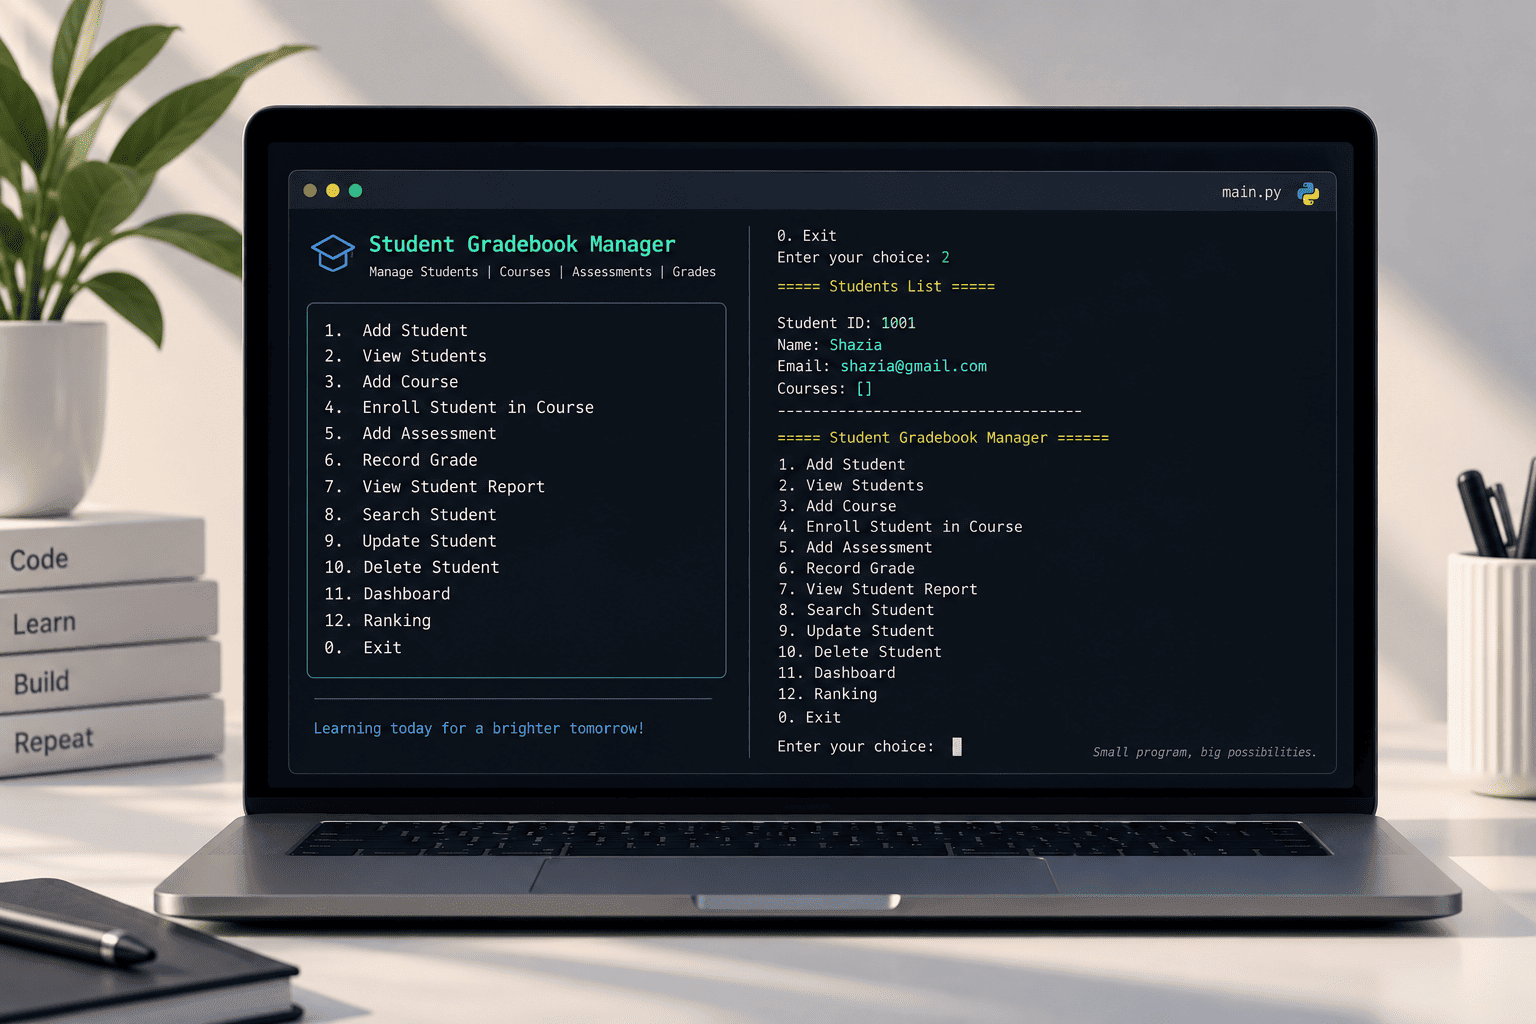
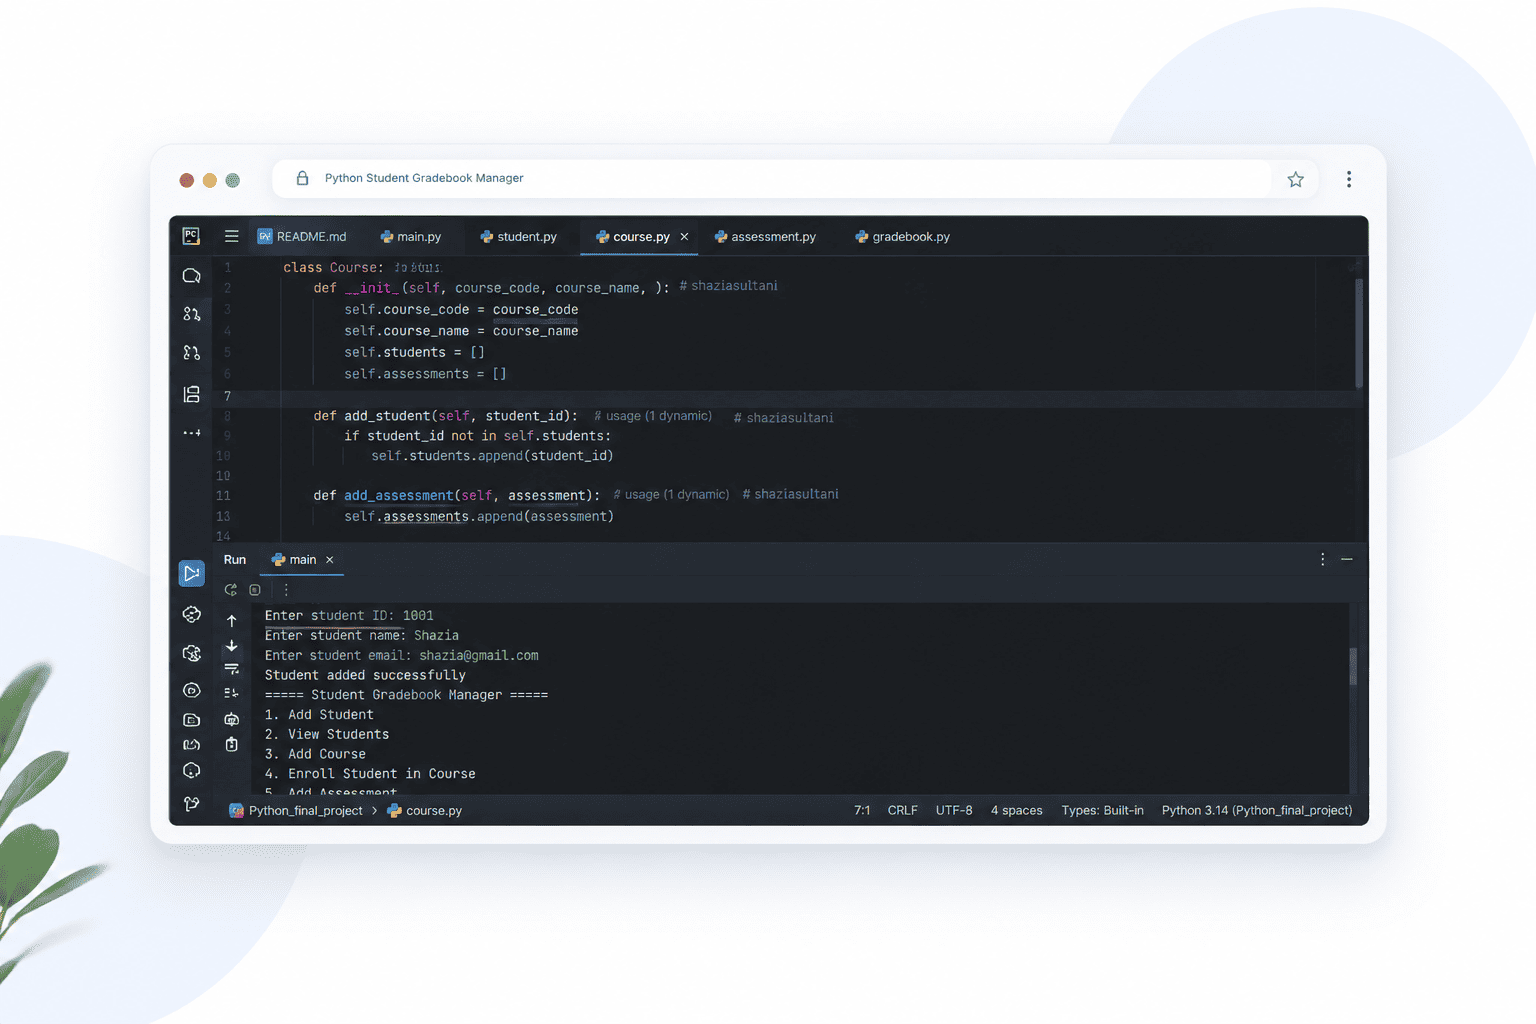
Update project images and layouts

diff --git a/src/components/SelectedWorks.jsx b/src/components/SelectedWorks.jsx
@@ -3,39 +3,39 @@ import React, { useState } from "react";
 import { motion } from "framer-motion";
 import { Link } from "react-router-dom";
 
-import digital from "../assets/image/digital.png";
-import realEast from "../assets/image/real-east.png";
+import netlinks from "../assets/image/netlinks.png";
+import zohco from "../assets/image/zohco.png";
 import python from "../assets/image/python.png";
-import onlineLearning from "../assets/image/online-learning.png";
-import respon from "../assets/image/respon.png";
+import nexor from "../assets/image/nexor.png";
+import education from "../assets/image/education.png";
 import mentor from "../assets/image/mentor.png";
 
 const projects = [
   {
-    title: "Digital Marketing Website",
-    image: digital,
-    link: "https://6a61e3946d408da256fdcb43--harmonious-gumption-e1be4d.netlify.app/",
+    title: "Netlinks Website",
+    image: netlinks,
+    link: "https://sensational-otter-97a60e.netlify.app/",
     description:
-      "A modern website designed to showcase digital marketing services with a clean, engaging interface.",
-    category: "Marketing",
+      "A modern corporate website showcasing enterprise software, Odoo solutions, and AI-powered services through a professional, responsive design.",
+    category: "Corporate Website",
     highlights: [
-      "Digital marketing services",
-      "Clean and engaging interface",
+      "Enterprise software and service presentation",
+      "Modern navigation and responsive layout",
     ],
-    technologies: ["React", "JavaScript"],
+    technologies: ["React", "Tailwind CSS", "Framer Motion"],
   },
   {
-    title: "Real Estate",
-    image: realEast,
-    link: "https://6a722a9c0e65a40e69543147--lively-kitsune-b3d5f7.netlify.app/",
+    title: "Zohco Website",
+    image: zohco,
+    link: "https://6ad8fb91e2ebd8369f50207d--zohco-website.netlify.app/",
     description:
-      "A clean real estate website designed to help users explore properties and connect with services.",
-    category: "Real Estate",
+      "A sustainability-focused website promoting eco-friendly living and renewable energy through immersive imagery and a clean, modern interface.",
+    category: "Sustainability Website",
     highlights: [
-      "Property exploration",
-      "User-friendly layout",
+      "Immersive, image-led landing page",
+      "Clean navigation and nature-inspired design",
     ],
-    technologies: ["React", "CSS"],
+    technologies: ["HTML", "CSS", "JavaScript"],
   },
   {
     title: "Student Management System",
@@ -44,49 +44,44 @@ const projects = [
     description:
       "A Python-based system for managing students, courses, assessments, grades, and academic records.",
     category: "Python",
-    highlights: [
-      "Student and course management",
-      "Grade tracking",
-    ],
+    highlights: ["Student and course management", "Grade tracking"],
     technologies: ["Python"],
   },
   {
-    title: "Online Learning Platform",
-    image: onlineLearning,
-    link: "https://6a8efd07c22f2bf179ca0448--graceful-gingersnap-64838f.netlify.app/",
+    title: "Nexor Website",
+    image: nexor,
+    link: "https://shaziasultani.github.io/nexor-website/",
     description:
-      "An online learning interface designed to help users discover courses and explore opportunities.",
-    category: "Education",
+      "A modern business website featuring a refined visual identity, clear messaging, and a professional presentation of business services.",
+    category: "Business Website",
     highlights: [
-      "Course discovery",
-      "Learning-focused interface",
+      "Clean and professional visual hierarchy",
+      "Responsive layout with clear calls to action",
     ],
-    technologies: ["React", "Tailwind CSS"],
+    technologies: ["React", "Tailwind CSS", "Framer Motion"],
   },
   {
-    title: "Responsive Blog Website",
-    image: respon,
-    link: "https://6a63b7c49a8ca1bde58e5320--vermillion-marzipan-0ef82b.netlify.app/",
+    title: "EduLearn Website",
+    image: education,
+    link: "https://github.com/shaziasultani/educational-website1",
+    linkLabel: "View repository ↗",
     description:
-      "A responsive blog website focused on presenting articles through a clean, user-friendly layout.",
-    category: "Blog",
+      "An educational website designed to support students in their learning journey, featuring course exploration, educational resources, and an accessible interface for discovering learning opportunities.",
+    category: "Educational Website",
     highlights: [
-      "Responsive layout",
-      "Article presentation",
+      "Course discovery and learning resources",
+      "Student-focused interface and navigation",
     ],
-    technologies: ["HTML", "CSS"],
+    technologies: ["HTML", "CSS", "JavaScript"],
   },
   {
     title: "Mentor Cards Website",
     image: mentor,
     link: "https://6a7caf65c0a3c2c8916d303d--stalwart-kangaroo-fe934c.netlify.app/",
     description:
-      "A mentor discovery interface featuring professional profiles, skills, ratings, and session info.",
+      "A mentor discovery interface featuring professional profiles, skills, ratings, and session information.",
     category: "Mentorship",
-    highlights: [
-      "Mentor profiles",
-      "Ratings and session information",
-    ],
+    highlights: ["Mentor profiles", "Ratings and session information"],
     technologies: ["React", "CSS"],
   },
 ];
@@ -125,7 +120,8 @@ export default function SelectedWorks() {
           </h2>
 
           <p className="section-note text-[17px] leading-[1.7] text-[#20242C]">
-            A selection of projects showcasing my web development and design skills.
+            A selection of projects showcasing my web development and design
+            skills.
           </p>
         </motion.div>
 
@@ -251,7 +247,7 @@ export default function SelectedWorks() {
                 rel="noopener noreferrer"
                 className="inline-flex items-center gap-2 rounded-md bg-[#2C4A6E] px-4 py-3 text-[14.5px] font-medium text-[#FAFAF8] no-underline transition-colors duration-300 hover:bg-[#56AECB]"
               >
-                Visit live site ↗
+                {project.linkLabel || "Visit live site ↗"}
               </a>
 
               <Link
@@ -263,13 +259,13 @@ export default function SelectedWorks() {
             </motion.div>
           </div>
 
-          {/* Project preview - image only */}
+          {/* Project preview - wider image with object-cover */}
           <motion.a
             variants={itemVariants}
             href={project.link}
             target="_blank"
             rel="noopener noreferrer"
-            className="block overflow-hidden"
+            className="block w-full overflow-hidden rounded-lg md:mr-[-10%] md:w-[100%]"
             whileHover={{ y: -3 }}
             transition={{ duration: 0.25 }}
           >
@@ -277,7 +273,7 @@ export default function SelectedWorks() {
               key={project.image}
               src={project.image}
               alt={project.title}
-              className="aspect-[4/3] w-full object-cover rounded-lg shadow-[0_10px_20px_rgba(44,74,110,0.18)]"
+              className="h-auto w-full rounded-lg object-cover shadow-[0_10px_20px_rgba(44,74,110,0.18)] md:aspect-[4/3]"
               initial={{ opacity: 0, scale: 1.04 }}
               animate={{ opacity: 1, scale: 1 }}
               transition={{ duration: 0.6 }}

diff --git a/src/components/Projects.jsx b/src/components/Projects.jsx
@@ -14,7 +14,64 @@ import project7 from "../assets/image/reb.png";
 import digital from "../assets/image/digital.png";
 import mentor from "../assets/image/mentor.png";
 
+import netlinks from "../assets/image/netlinks.png";
+import zohco from "../assets/image/zohco.png";
+import nexor from "../assets/image/nexor.png";
+
 const projects = [
+    // ================= WEB DEVELOPMENT PROJECTS =================
+    {
+        img: realEast,
+        title: "Real Estate Website",
+        category: "Web Development",
+        description:
+            "A real estate website presenting property information through a clean layout and user-friendly browsing experience.",
+        href: "https://6a722a9c0e65a40e69543147--lively-kitsune-b3d5f7.netlify.app/",
+    },
+    {
+        img: digital,
+        title: "Digital Marketing Website",
+        category: "Web Development",
+        description:
+            "A digital marketing website presenting services through an engaging interface and clearly structured content.",
+        href: "https://6a61e3946d408da256fdcb43--harmonious-gumption-e1be4d.netlify.app/",
+    },
+    {
+        img: mentor,
+        title: "Mentor Cards Website",
+        category: "Web Development",
+        description:
+            "A mentor-focused website presenting profiles and key information in an organized, easy-to-explore card layout.",
+        href: "https://6a7caf65c0a3c2c8916d303d--stalwart-kangaroo-fe934c.netlify.app/",
+    },
+    {
+        img: project1, // Replace with the original blog screenshot if different
+        title: "Responsive Blog Website",
+        category: "Web Development",
+        description:
+            "A responsive blog website designed to present articles and content in a clean, readable layout across desktop, tablet, and mobile devices.",
+        href: "YOUR_ORIGINAL_RESPONSIVE_BLOG_WEBSITE_LINK",
+    },
+
+    // ================= PYTHON PROJECTS =================
+    {
+        img: python,
+        title: "Student Management System",
+        category: "Python",
+        description:
+            "A Python-based system for organizing student information and managing academic records.",
+        href: "https://github.com/shaziasultani/Python_final_project",
+    },
+    {
+        img: project7,
+        title: "Reeborg's Hurdle",
+        category: "Python Game Development",
+        description:
+            "A Python-based game challenge focused on programming logic, loops, conditional statements, and guiding Reeborg through hurdles.",
+        href: "https://x.com/shazia__sultani/status/2022742307846656358?s=20",
+    },
+
+    // ================= GRAPHIC DESIGN PROJECTS =================
     {
         img: project1,
         title: "Creative Design Project",
@@ -46,46 +103,6 @@ const projects = [
         description:
             "A visual project combining design elements to create a clear, attractive, and memorable result.",
         href: "https://x.com/shazia__sultani/status/1624759314609995776?s=20",
-    },
-    {
-        img: python,
-        title: "Student Management System",
-        category: "Python",
-        description:
-            "A Python-based system for organizing student information and managing academic records.",
-        href: "https://github.com/shaziasultani/Python_final_project",
-    },
-    {
-        img: realEast,
-        title: "Real Estate Website",
-        category: "Web Development",
-        description:
-            "A real estate website presenting property information through a clean layout and user-friendly browsing experience.",
-        href: "https://6a722a9c0e65a40e69543147--lively-kitsune-b3d5f7.netlify.app/",
-    },
-    {
-    img: project7,
-    title: "Reeborg's Hurdle",
-    category: "Python Game Development",
-    description:
-        "A Python-based game challenge focused on programming logic, loops, conditional statements, and guiding Reeborg through hurdles.",
-    href: "https://x.com/shazia__sultani/status/2022742307846656358?s=20",
-},
-    {
-        img: digital,
-        title: "Digital Marketing Website",
-        category: "Web Development",
-        description:
-            "A digital marketing website presenting services through an engaging interface and clearly structured content.",
-        href: "https://6a61e3946d408da256fdcb43--harmonious-gumption-e1be4d.netlify.app/",
-    },
-    {
-        img: mentor,
-        title: "Mentor Cards Website",
-        category: "Web Development",
-        description:
-            "A mentor-focused website presenting profiles and key information in an organized, easy-to-explore card layout.",
-        href: "https://6a7caf65c0a3c2c8916d303d--stalwart-kangaroo-fe934c.netlify.app/",
     },
 ];
 
